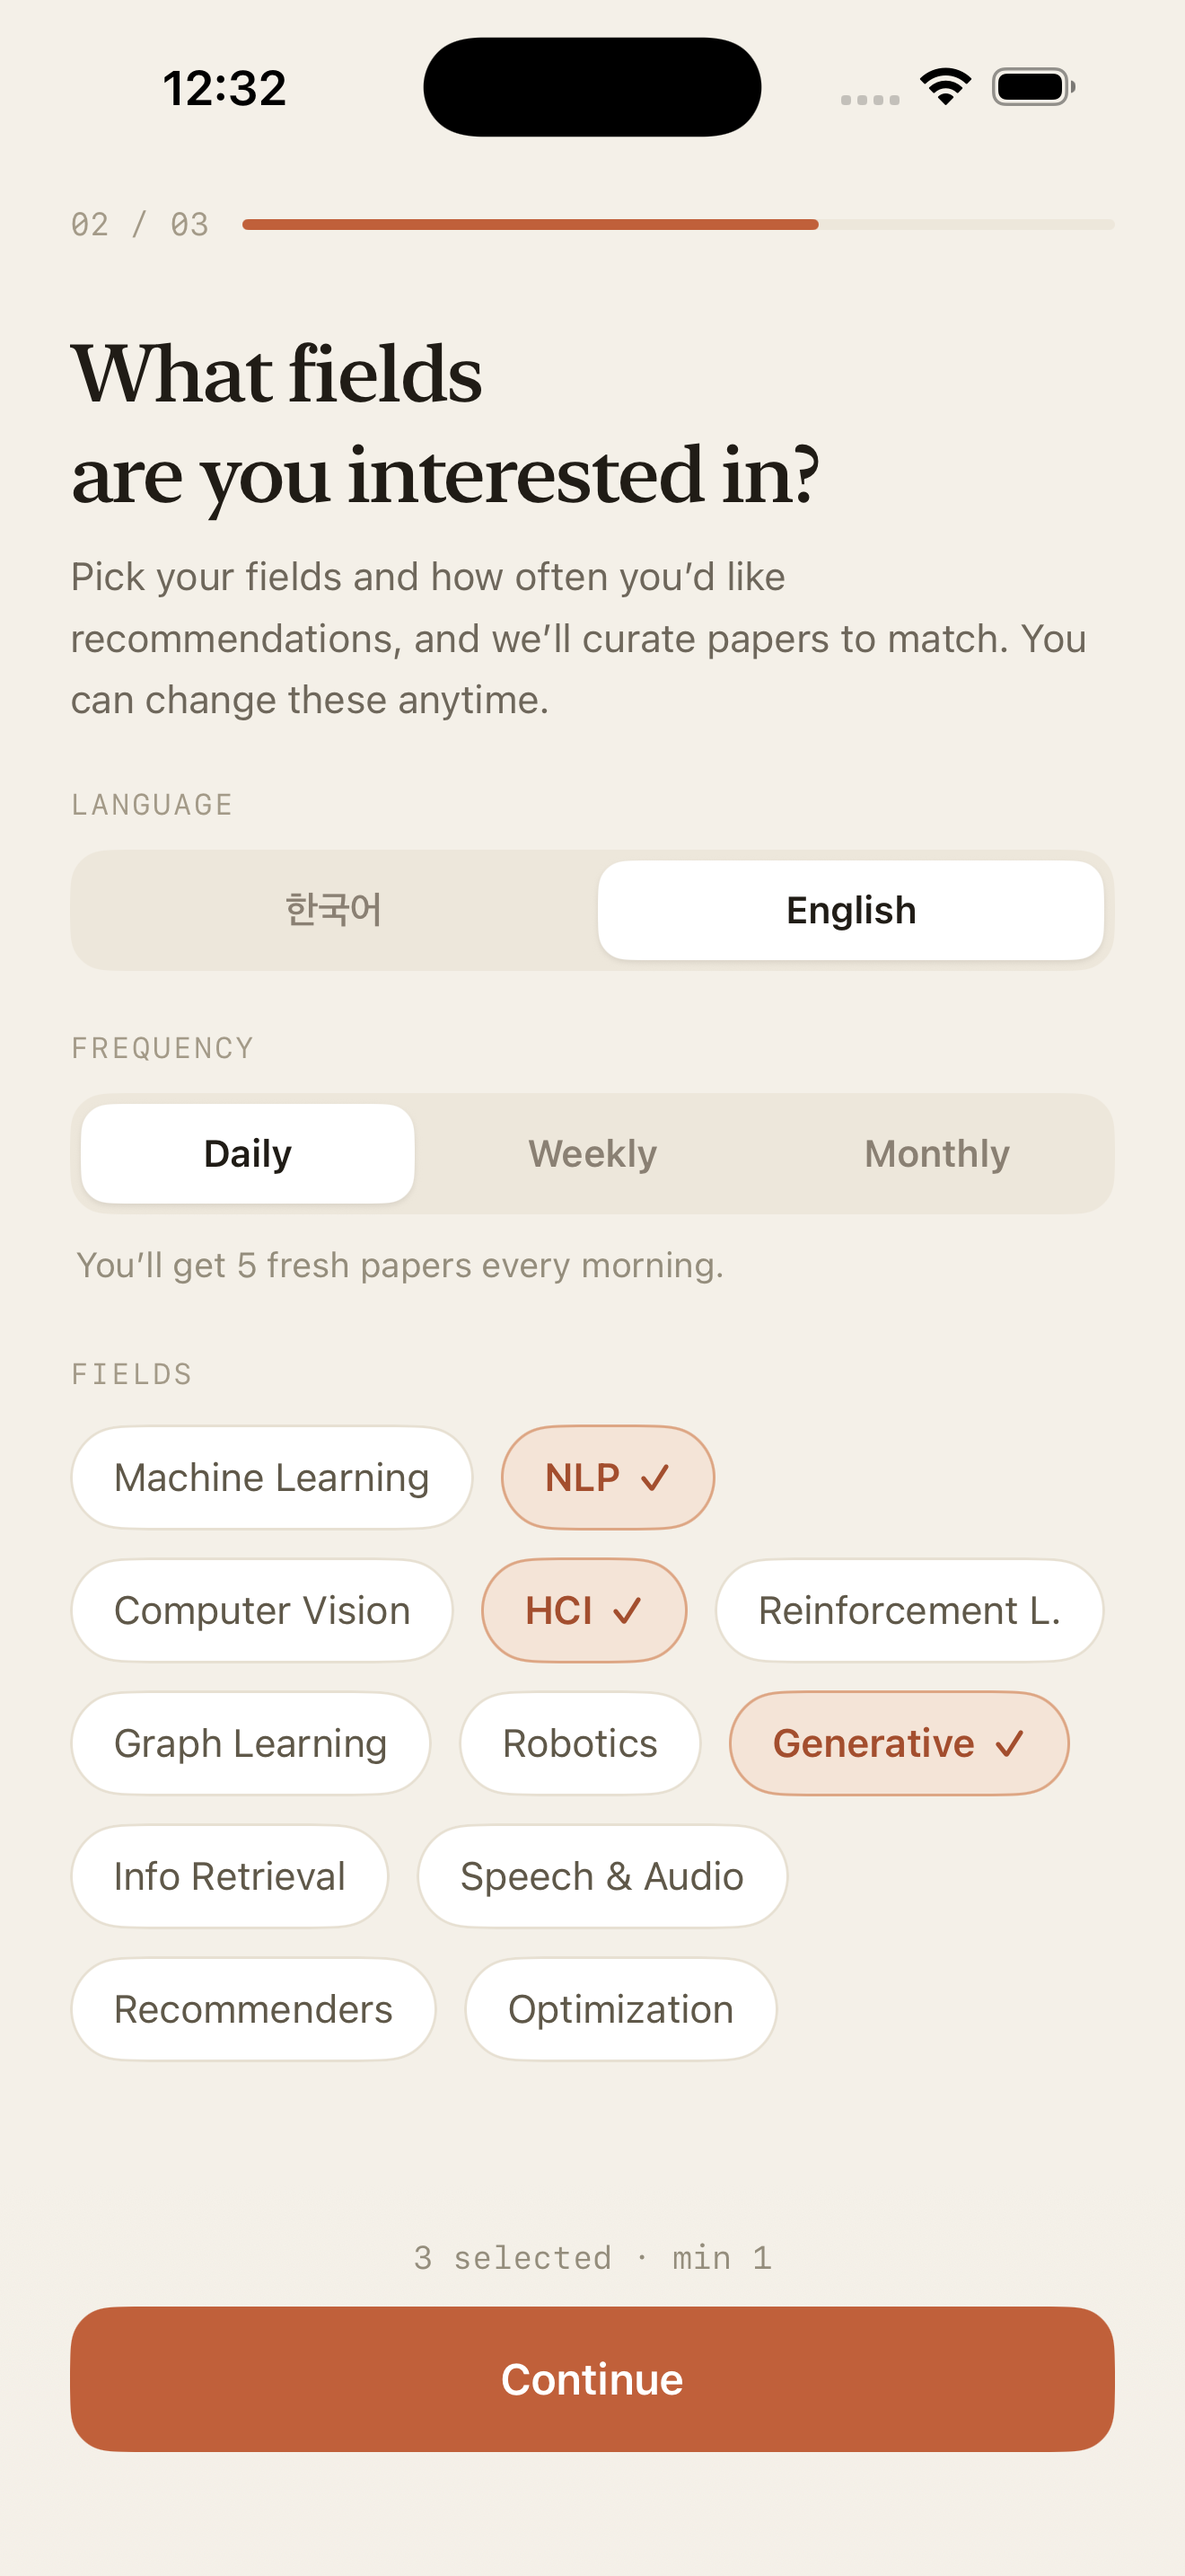
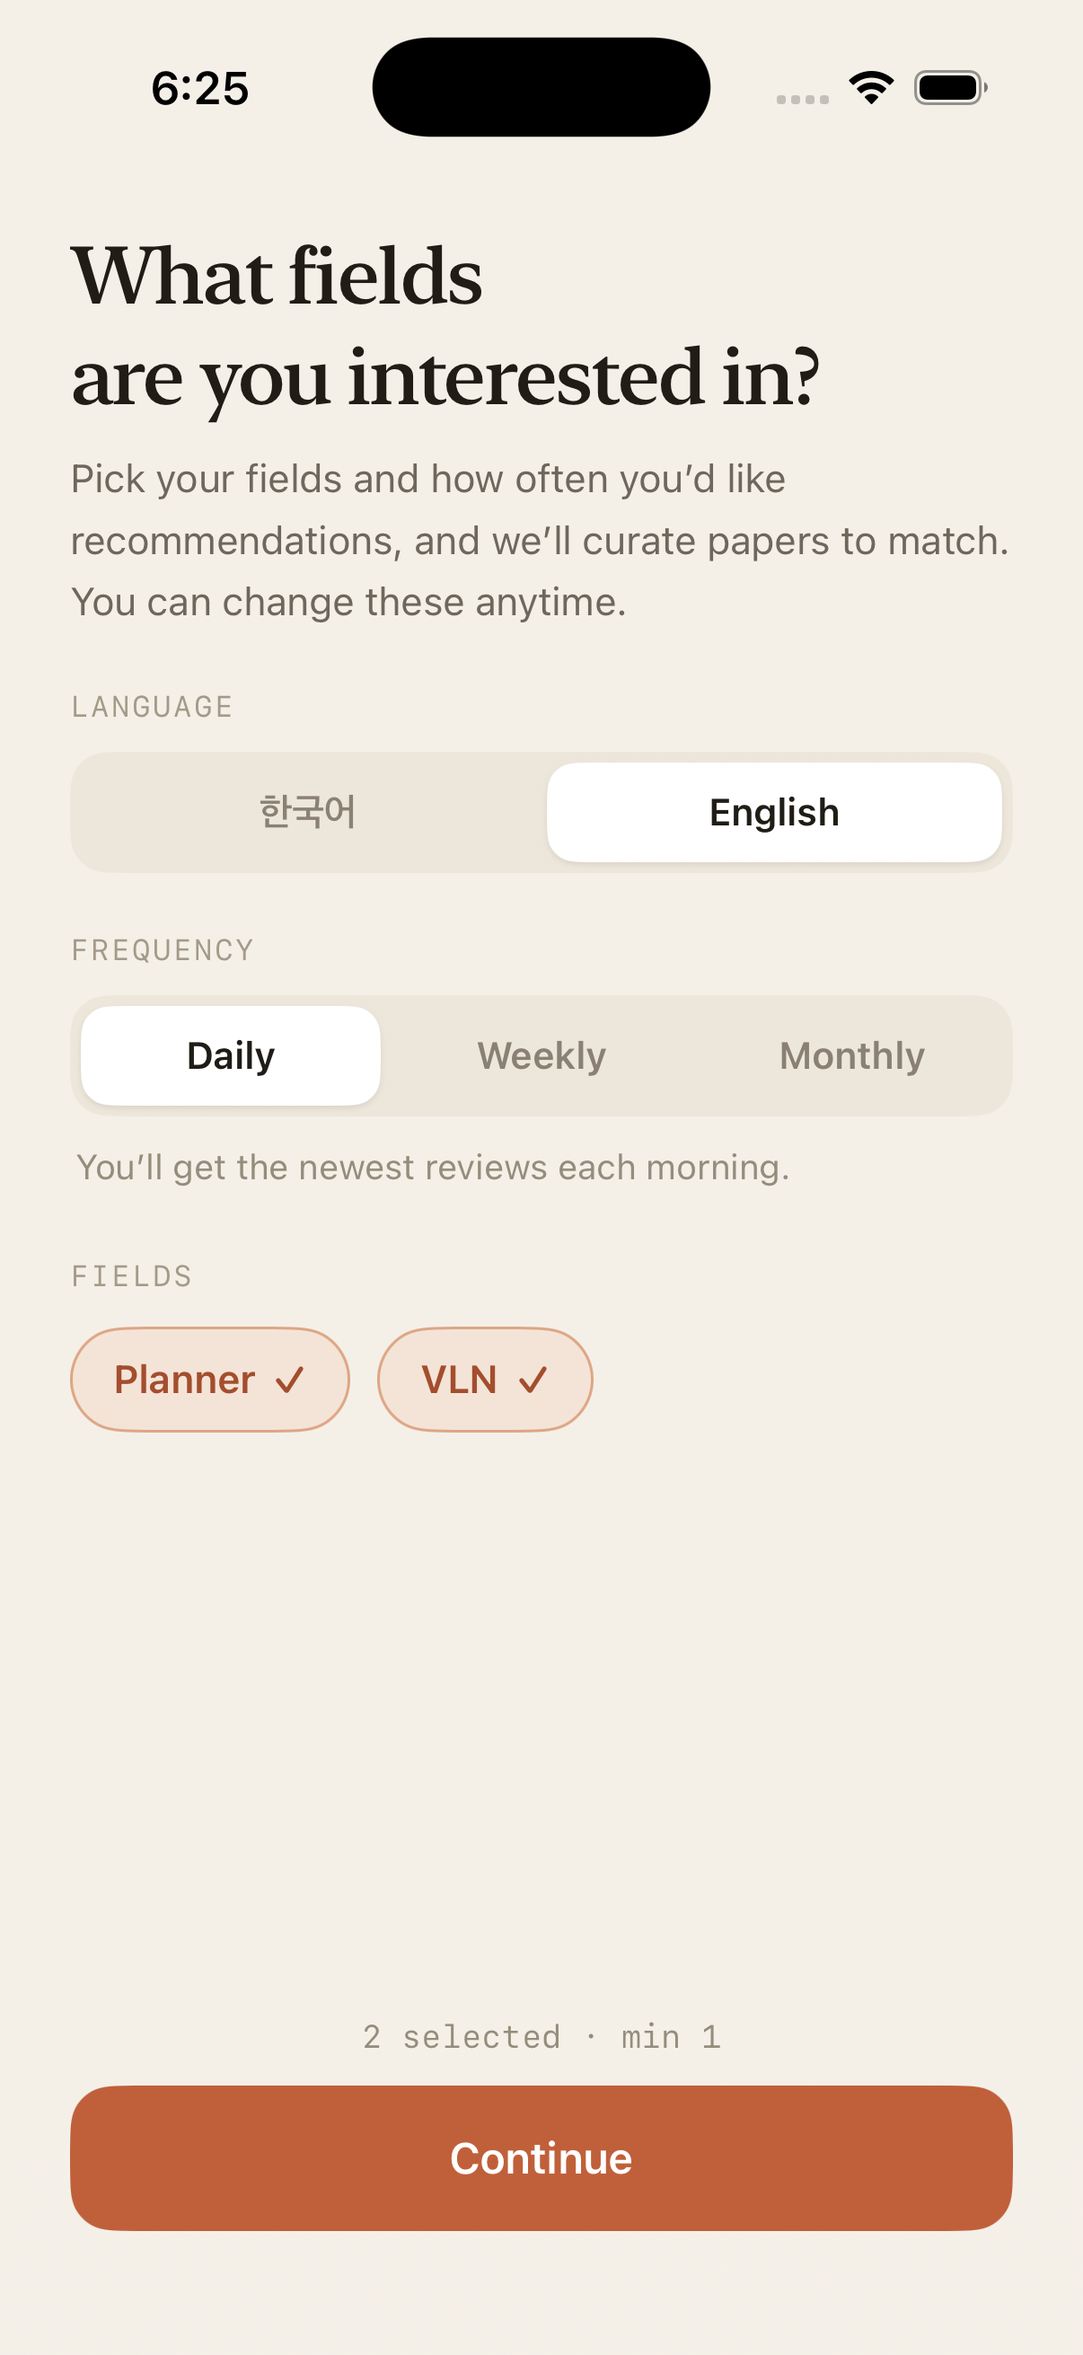
docs: update README for the review reader and real-feed behaviour
The README still described the pre-feed mockup app. It now covers the
agent review reader (the point of this branch), explains the pipeline
from the paper-review agent through daily.json to the app, and links the
review markdown contract and dev notes.

Screenshots for onboarding, feed and the weekly summary were regenerated
because the old ones can no longer be reproduced: onboarding had a fake
"02 / 03" progress bar that is gone, and the weekly summary was showing
hardcoded counts and a paper that isn't in the feed. Added two shots of
the native reader, captioned to say it runs on a bundled sample until the
feed emits reviewMarkdownURL — so the README doesn't imply it is live.

Third-party notices now list MarkdownUI and SwiftMath (both MIT,
attribution taken from their LICENSE files).

diff --git a/README.md b/README.md
@@ -35,11 +35,39 @@
 
 |   |   |
 |---|---|
-| 🎯 **맞춤 추천** | 관심 분야·주기 기반 데일리 피드 |
-| 🌐 **원문 ↔ 번역** | 영어 원문 ↔ 한국어 번역 토글 |
+| 🎯 **맞춤 추천** | 온보딩에서 고른 관심 분야로 데일리 피드를 필터링 |
+| 📄 **리뷰 리더** | 에이전트가 쓴 장문(40~80KB) 한국어 리뷰를 앱에서 정독 |
+| 🌐 **원문 ↔ 번역** | 번역본이 있는 논문은 원문 ↔ 한국어 토글 |
 | 🇰🇷 / 🇺🇸 **한 · 영 UI** | 앱 전체 언어 전환 (온보딩 · 설정) |
-| 📚 **라이브러리** | 읽을 목록 · 저장 · 완료 + 진행률 |
-| 📊 **주간 요약** | 읽음 · 연속 · 주제 분포 |
+| 📚 **라이브러리** | 읽을 목록 · 저장 · 완료 |
+| 📊 **주간 요약** | 이번 주 읽음 · 저장 · 연속 일수 · 주제 분포 |
+
+## 📄 리뷰 리더
+
+피드의 논문마다 **에이전트가 작성한 PhD 수준의 한국어 리뷰**가 붙습니다. 목차·읽기 진행률·섹션
+네비게이션, 수식 렌더링, 표·그림·아키텍처 다이어그램 트리트먼트를 갖춘 전용 리더로 읽습니다.
+
+<p align="center">
+  <img src="PaperDaily/screenshots/07_review_reader.png" width="210"/>
+  &nbsp;&nbsp;
+  <img src="PaperDaily/screenshots/08_review_body.png" width="210"/>
+</p>
+
+> 위 두 화면은 **네이티브 리더**(MarkdownUI + SwiftMath)이며, 번들된 샘플 리뷰로 시연한 것입니다.
+> 피드가 `reviewMarkdownURL` 필드를 내보내기 전까지는 앱이 [웹 리뷰 페이지](https://romaster93.github.io/paperdaily-feed/)를
+> 리더 안에서 띄우고, 필드가 생기면 자동으로 네이티브 리더로 전환됩니다.
+
+## 🔄 어떻게 동작하나
+
+```
+paper-review 에이전트        피드 생성기              GitHub Pages            앱
+(매일 새벽, arXiv 탐색)  →  (review.md → HTML   →   daily.json +      →   fetch
+ PhD 수준 한국어 리뷰         + daily.json)          리뷰 페이지            (실패 시 캐시 → 샘플)
+```
+
+앱은 하루치 배치(`papers`)만 피드에 보여주고, 나머지 코퍼스(`archive`)는 저장·읽음 목록을
+해석하는 데만 씁니다. 스키마는 [`daily.schema.md`](PaperDaily/Backend/daily.schema.md),
+리뷰 마크다운 계약은 [`REVIEW-FORMAT.md`](REVIEW-FORMAT.md) 참고.
 
 ## 🌐 한국어 · English
 
@@ -51,7 +79,11 @@
 
 ## 🛠 Built with
 
-<p align="center"><code>SwiftUI</code> · <code>iOS 17+</code> · Mac Mini <code>daily.json</code> feed · Dancing Script wordmark</p>
+<p align="center">
+  <code>SwiftUI</code> · <code>iOS 17+</code> ·
+  <code>MarkdownUI</code> · <code>SwiftMath</code> ·
+  Mac Mini <code>daily.json</code> feed · Dancing Script wordmark
+</p>
 
 ---
 
@@ -63,6 +95,8 @@
 
 ### Third-party notices
 - **Dancing Script** — 스플래시 워드마크 폰트. © The Dancing Script Project Authors, [SIL Open Font License 1.1](PaperDaily/PaperDaily/DancingScript-OFL.txt). *위 프로젝트 라이선스와 별개로, 이 폰트는 OFL을 따릅니다.*
+- **swift-markdown-ui** — 리뷰 마크다운 렌더링. © Guillermo Gonzalez, MIT License.
+- **SwiftMath** — 리뷰 수식 렌더링. © 2023 Computer Inspirations, MIT License.
 
 ### Docs
-[`DESIGN.md`](DESIGN.md) · [`PaperDaily/README.md`](PaperDaily/README.md) · [`PaperDaily/RELEASE.md`](PaperDaily/RELEASE.md)
+[`DESIGN.md`](DESIGN.md) · [`REVIEW-FORMAT.md`](REVIEW-FORMAT.md) · [`DEV_NOTES.md`](DEV_NOTES.md) · [`PaperDaily/README.md`](PaperDaily/README.md) · [`PaperDaily/RELEASE.md`](PaperDaily/RELEASE.md)
